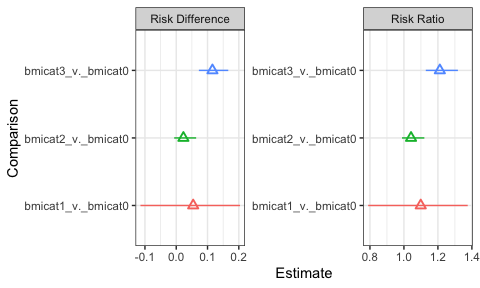
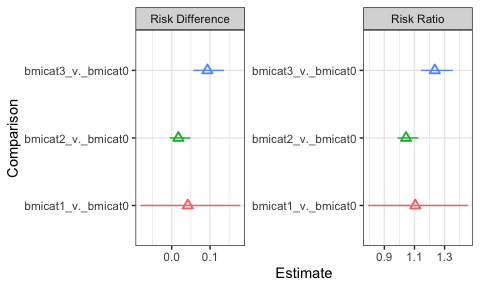
Update documentation

diff --git a/README.md b/README.md
@@ -4,7 +4,6 @@
 # riskCommunicator
 
 <!-- badges: start -->
-
 <!-- badges: end -->
 
 An R package for estimating risk differences and relative risk measures.
@@ -16,14 +15,15 @@ logistic regression. In particular, `riskCommunicator` estimates risk
 and rate differences, in addition to risk and rate ratios. The package
 estimates these effects using g-computation with the appropriate
 parametric model depending on the outcome (logistic regression for
-binary outcomes, Poisson regression for rate or count outcomes, and
-linear regression for continuous outcomes). Therefore, the package can
-handle binary, rate, count, and continuous outcomes and allows for
-dichotomous, categorical (\>2 categories), or continuous exposure
-variables. Additional features include estimation of effects stratified
-by subgroup and adjustment of standard errors for clustering. Confidence
-intervals are constructed by bootstrap at the individual or cluster
-level, as appropriate.
+binary outcomes, Poisson regression for rate or count outcomes, negative
+binomial regression for overdispersed rate or count outcomes, and linear
+regression for continuous outcomes). Therefore, the package can handle
+binary, rate, count, and continuous outcomes and allows for dichotomous,
+categorical (>2 categories), or continuous exposure variables.
+Additional features include estimation of effects stratified by subgroup
+and adjustment of standard errors for clustering. Confidence intervals
+are constructed by bootstrap at the individual or cluster level, as
+appropriate.
 
 This package operationalizes g-computation, which has not been widely
 adopted due to computational complexity, in an easy-to-use
@@ -78,12 +78,12 @@ coding: 0 = normal weight; 1=underweight; 2=overweight; 3=obese)
 library(riskCommunicator)
 library(ggplot2)
 library(tidyverse)
-#> ── Attaching packages ──────────────────────────────────────────────────────────────── tidyverse 1.3.0 ──
-#> ✓ tibble  3.0.1     ✓ dplyr   1.0.0
-#> ✓ tidyr   1.1.0     ✓ stringr 1.4.0
-#> ✓ readr   1.3.1     ✓ forcats 0.5.0
+#> ── Attaching packages ─────────────────────────────────────── tidyverse 1.3.1 ──
+#> ✓ tibble  3.1.6     ✓ dplyr   1.0.8
+#> ✓ tidyr   1.2.0     ✓ stringr 1.4.0
+#> ✓ readr   2.1.2     ✓ forcats 0.5.1
 #> ✓ purrr   0.3.4
-#> ── Conflicts ─────────────────────────────────────────────────────────────────── tidyverse_conflicts() ──
+#> ── Conflicts ────────────────────────────────────────── tidyverse_conflicts() ──
 #> x dplyr::filter() masks stats::filter()
 #> x dplyr::lag()    masks stats::lag()
 ## basic example code
@@ -96,20 +96,20 @@ bmi.results
 #> 
 #> Parameter estimates: 
 #>                             bmicat1_v._bmicat0 Estimate (95% CI)
-#> Risk Difference                            0.054 (-0.114, 0.204)
-#> Risk Ratio                                  1.099 (0.790, 1.375)
+#> Risk Difference                            0.042 (-0.082, 0.178)
+#> Risk Ratio                                  1.106 (0.792, 1.454)
 #> Odds Ratio                                  1.248 (0.631, 2.506)
-#> Number needed to treat/harm                               18.462
+#> Number needed to treat/harm                               23.846
 #>                             bmicat2_v._bmicat0 Estimate (95% CI)
-#> Risk Difference                            0.023 (-0.007, 0.064)
-#> Risk Ratio                                  1.042 (0.989, 1.120)
+#> Risk Difference                            0.017 (-0.005, 0.049)
+#> Risk Ratio                                  1.044 (0.988, 1.126)
 #> Odds Ratio                                  1.097 (0.973, 1.297)
-#> Number needed to treat/harm                               43.685
+#> Number needed to treat/harm                               57.405
 #>                             bmicat3_v._bmicat0 Estimate (95% CI)
-#> Risk Difference                             0.116 (0.072, 0.166)
-#> Risk Ratio                                  1.211 (1.129, 1.318)
+#> Risk Difference                             0.093 (0.056, 0.136)
+#> Risk Ratio                                  1.235 (1.143, 1.354)
 #> Odds Ratio                                  1.628 (1.348, 2.037)
-#> Number needed to treat/harm                                8.642
+#> Number needed to treat/harm                               10.733
 ```
 
 The results from the g-computation show the estimated risk difference

diff --git a/NEWS.md b/NEWS.md
@@ -1,3 +1,13 @@
+# riskCommunicator 1.0.0
+
+* Added functionality to use negative binomial distribution for overdispersed count/rate outcomes with outcome.type = "count_nb" or outcome.type = "rate_nb".
+
+* Changed order of operations for calculating risk difference which resulted in changes to previous estimates at the hundredths decimal place.
+
+* Added additional error checks to prevent users from inputting incorrect data structures.
+
+*
+
 # riskCommunicator 0.1.0.9000
 
 * Added a `NEWS.md` file to track changes to the package
